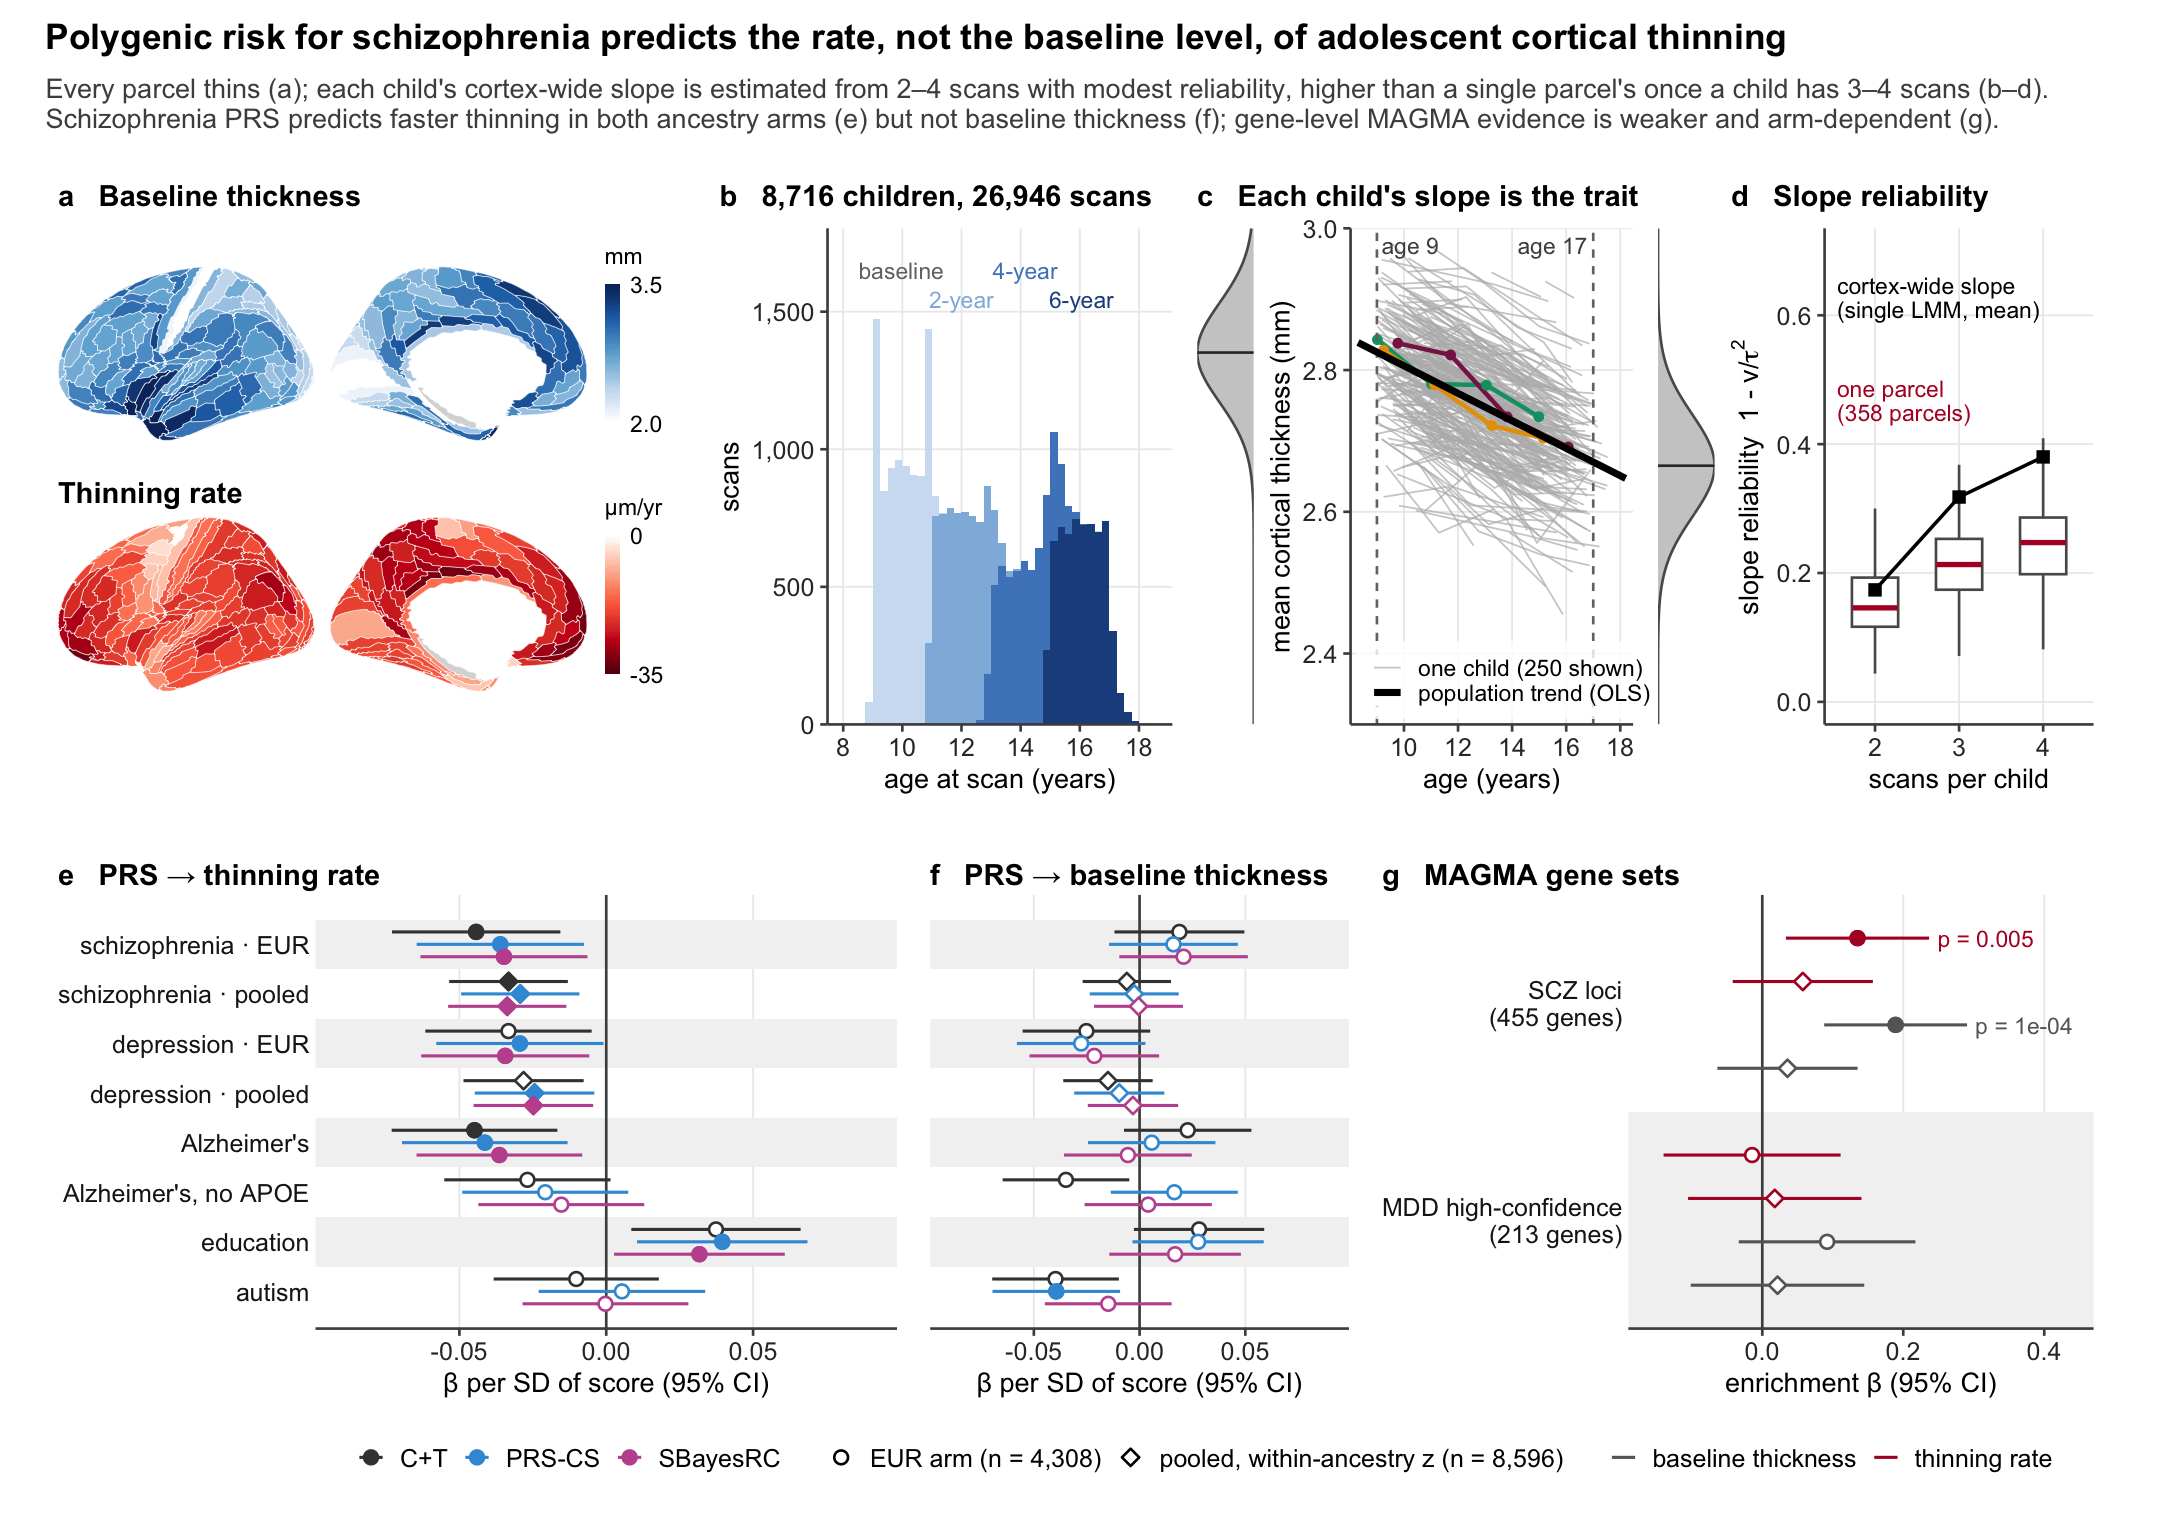
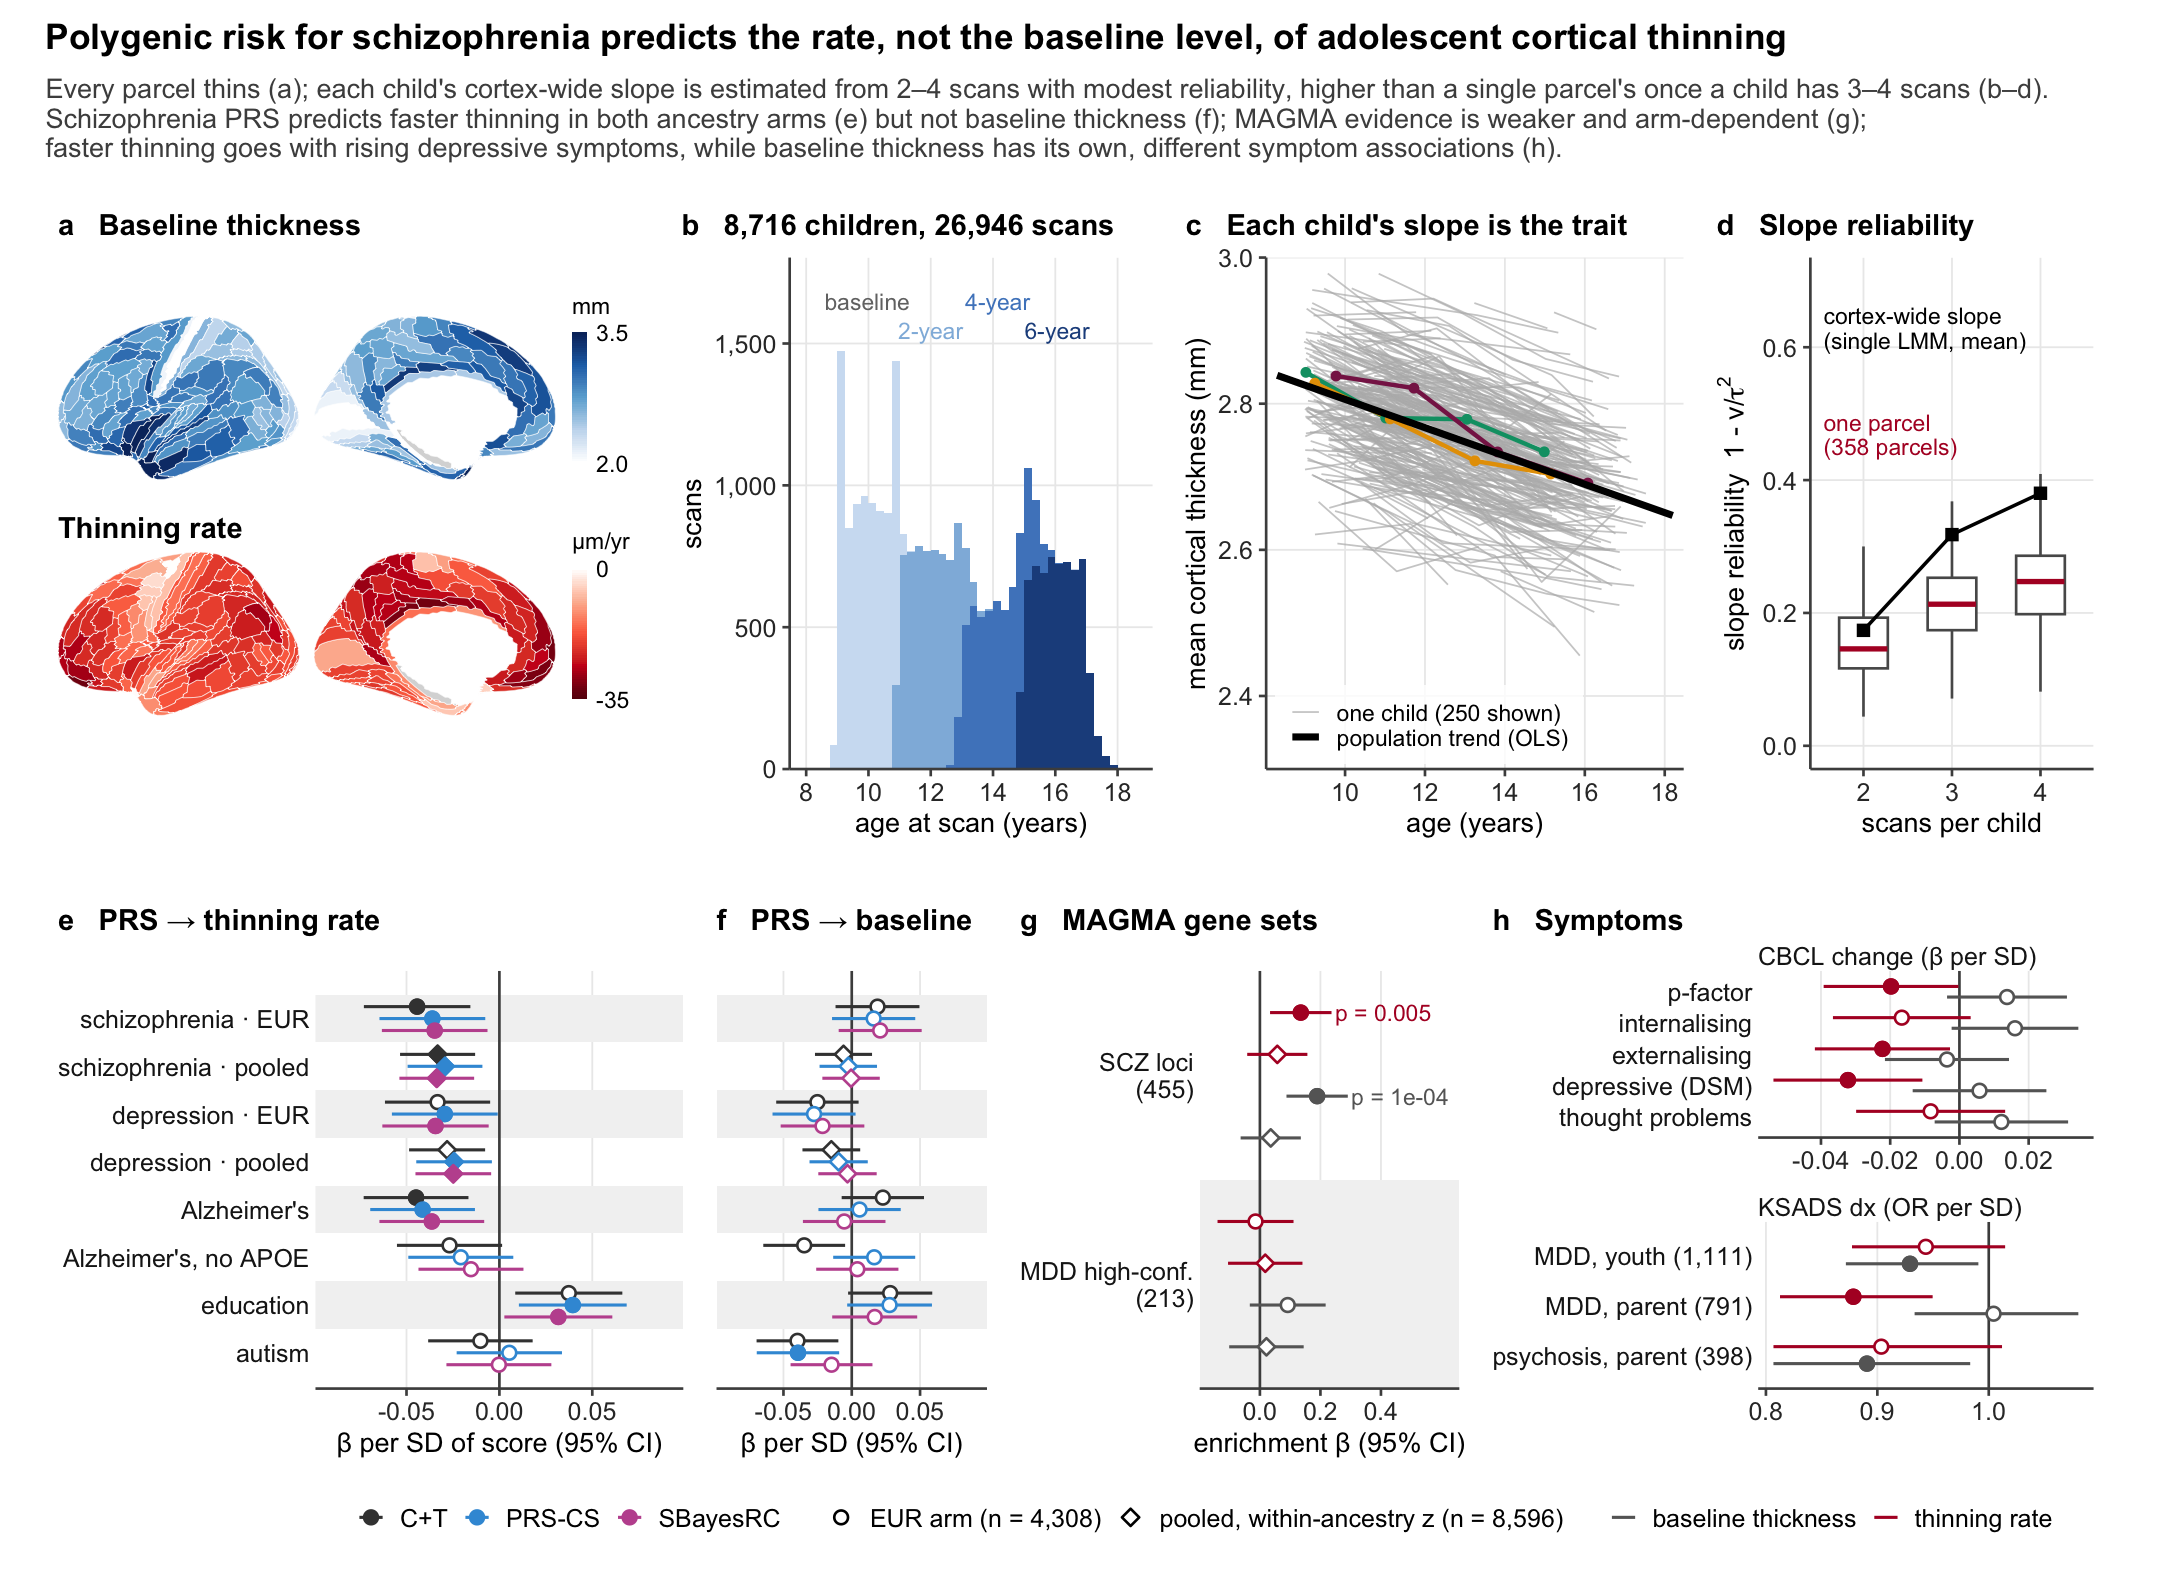
fig1: panel h (symptoms vs thinning rate and baseline thickness); marginal densities dropped; row 2 compressed
h  CBCL change (p-factor, internalising, externalising, DSM depressive,
   thought) and KSADS lifetime dx (MDD youth, MDD parent, psychosis parent)
   against the SAME single-LMM phenotypes as e-f -- not the mean-of-parcel
   'global_thin' of fig_cbcl_candidate -- each fitted alone (and jointly, in
   the table).  fig1_prep_cbcl.py executes the outcome-construction block of
   ahba_pls/code/23_cbcl_explore.py rather than re-implementing it, so outcome
   definitions and models match fig_cbcl_candidate; PLS rows excluded.
   Reproduces that session's global-thinning results with the sign flipped
   (DSM depressive change -0.032 p .003 vs +0.030 p .006; parent MDD OR .88
   vs 1.11).  Baseline thickness is not a null: youth MDD OR .93 (p .025),
   parent psychosis OR .89 (p .022), while it is null on symptom change --
   the rate and the level have different, not nested, associations.
   Joint models change nothing (slope-intercept r = .06).
   Individual-level inputs stay in /tmp; hcp70_cbcl_assoc.tsv is coefficients.
c  marginal densities and age markers removed (user: too busy).
e-h widths 0.68 / 0.5 / 0.48 / 0.62; shorter f title and x label, shorter g
   set labels, p labels no longer clipped.

diff --git a/genetic_analysis/fig1_prep_cbcl.py b/genetic_analysis/fig1_prep_cbcl.py
@@ -1,0 +1,104 @@
+"""Figure 1 panel h: symptoms vs the two Figure-1 phenotypes (HCP-MMP, 7.0).
+
+Usage (repo root, after `Rscript genetic_analysis/fig1_prep_1lmm.R`):
+    python genetic_analysis/fig1_prep_cbcl.py
+
+Brain predictors -- the SAME per-child quantities the genetics panels use (the
+single LMM on the per-scan cortical mean, orderops/build_1lmm_pheno.py
+definition), read from /tmp/hcp70_1lmm_blups.csv (individual-level, never
+committed):
+    global_slope        random slope (per SD; negative = faster thinning)
+    baseline_thickness  random intercept (per SD; thickness at the sample mean
+                        age, the positive-control phenotype of the PRS grid)
+Outcomes and models are taken verbatim from ahba_pls/code/23_cbcl_explore.py
+(its outcome-construction block is executed, not re-implemented), so the
+definitions match fig_cbcl_candidate.png:
+    CBCL change   y_LATE ~ brain + y_BASE + age_LATE + sex + site   (log1p raw
+                  scores; LATE = mean of waves 5-7; beta / SD(y_LATE))
+    KSADS         lifetime dx ~ brain + age_LAST + sex + site  (logit)
+    OLS / logit, site fixed effects, family-clustered SEs.
+Each brain predictor is fitted ALONE (one model per phenotype), and jointly
+(both in the model) so the slope's association can be read net of baseline.
+Writes fig1_inputs/hcp70_cbcl_assoc.tsv (coefficients only).
+"""
+from __future__ import annotations
+
+import sys
+from pathlib import Path
+
+import numpy as np
+import pandas as pd
+
+REPO = Path(__file__).resolve().parents[1]
+SRC_SCRIPT = REPO / "ahba_pls/code/23_cbcl_explore.py"
+BLUPS = Path("/tmp/hcp70_1lmm_blups.csv")
+OUT = REPO / "genetic_analysis/fig1_inputs/hcp70_cbcl_assoc.tsv"
+
+CBCL = ["pfactor", "internal", "external", "depress", "thought"]
+DXS = ["mdd_youth_DX", "mdd_parent_DX", "psychosis_parent_DX"]
+
+
+def build_outcomes() -> dict:
+    """Execute 23_cbcl_explore.py up to its model fits; return its namespace."""
+    src = SRC_SCRIPT.read_text()
+    cut = src.index("\ndef fit(")
+    ns = {"__file__": str(SRC_SCRIPT), "__name__": "cbcl_prefix"}
+    argv, sys.argv = sys.argv, [str(SRC_SCRIPT), "70"]
+    try:
+        exec(compile(src[:cut], str(SRC_SCRIPT), "exec"), ns)
+    finally:
+        sys.argv = argv
+    return ns
+
+
+def main() -> None:
+    ns = build_outcomes()
+    D = ns["D"].copy()
+    b = pd.read_csv(BLUPS).set_index("subject")
+    z = lambda s: (s - s.mean()) / s.std()
+    D["global_slope"] = z(b.re_slope).reindex(D.index)
+    D["baseline_thickness"] = z(b.re_intercept).reindex(D.index)
+    assert D.global_slope.notna().mean() > 0.99, D.global_slope.notna().mean()
+    import statsmodels.formula.api as smf
+
+    def fit(y, xs, extra, kind="ols"):
+        f = f"{y} ~ " + " + ".join(xs) + " + C(sex) + C(site)" + "".join(f" + {e}" for e in extra)
+        d = D.dropna(subset=[y, *xs, *extra])
+        m = (smf.logit if kind == "logit" else smf.ols)(f, d).fit(
+            cov_type="cluster", cov_kwds={"groups": d.family},
+            **({"disp": 0} if kind == "logit" else {}))
+        return m, d
+
+    FU = ns["FU"]
+    rows = []
+    for model_set, xs_list in (("alone", [["global_slope"], ["baseline_thickness"]]),
+                               ("joint", [["global_slope", "baseline_thickness"]])):
+        for xs in xs_list:
+            for o in CBCL:
+                y = f"{o}_{FU}"
+                m, d = fit(y, xs, [f"age_{FU}", f"{o}_BASE"])
+                for x in xs:
+                    rows.append(dict(outcome=o, model="change", fit=model_set, brain=x,
+                                     beta=m.params[x], se=m.bse[x], p=m.pvalues[x],
+                                     n=int(m.nobs), n_cases=np.nan, y_sd=D[y].std()))
+            for o in DXS:
+                m, d = fit(o, xs, ["age_LAST"], kind="logit")
+                for x in xs:
+                    rows.append(dict(outcome=o, model="ksads_logit", fit=model_set, brain=x,
+                                     beta=m.params[x], se=m.bse[x], p=m.pvalues[x],
+                                     n=int(m.nobs), n_cases=int(d[o].sum()), y_sd=np.nan))
+    A = pd.DataFrame(rows)
+    A["est"] = np.where(A.model == "change", A.beta / A.y_sd, np.exp(A.beta))
+    A["lo"] = np.where(A.model == "change", (A.beta - 1.96 * A.se) / A.y_sd,
+                       np.exp(A.beta - 1.96 * A.se))
+    A["hi"] = np.where(A.model == "change", (A.beta + 1.96 * A.se) / A.y_sd,
+                       np.exp(A.beta + 1.96 * A.se))
+    A["source"] = "7.0 p/mh_p_cbcl.tsv + y/mh_{p,y}_ksads; single-LMM HCP phenotypes"
+    A.drop(columns="y_sd").to_csv(OUT, sep="\t", index=False, float_format="%.5g")
+    show = A[A.fit == "alone"].pivot_table(index="outcome", columns="brain", values=["est", "p"])
+    print(show.round(4).to_string())
+    print(OUT)
+
+
+if __name__ == "__main__":
+    main()

diff --git a/docs/figures/fig1_caption.md b/docs/figures/fig1_caption.md
@@ -2,10 +2,11 @@
 
 - **a** Group maps per parcel (bilateral mean, left hemisphere shown): baseline thickness and mean per-child thinning rate (-33 to -0.1 µm / year).
 - **b** Age at scan by visit; 8,716 children, 26,946 scans; 2 / 3 / 4 scans per child for 2,205 / 3,508 / 3,003 children.
-- **c** Per-scan cortical mean vs age for 250 random children (grey), three children with four scans (colour), population OLS trend -19 µm / year (black). Side densities: model-implied distribution of child-level thickness at ages 9 (left) and 17 (right) from the single LMM (mean 2.82 and 2.67 mm, SD 0.070 and 0.072 mm; site variance excluded).
+- **c** Per-scan cortical mean vs age for 250 random children (grey), three children with four scans (colour), population OLS trend -19 µm / year (black).
 - **d** Slope reliability 1 − v/τ², where v is a child's conditional (posterior) variance of the slope random effect and τ² the between-child slope variance: boxes, per-parcel LMMs (358 parcels; each value the mean over children; medians 0.15 / 0.21 / 0.25 for 2 / 3 / 4 scans); squares, the single LMM on the cortical mean (mean over children 0.17 / 0.32 / 0.38).
 - **e, f** PRS association with thinning rate (e) and baseline thickness (f); β per SD with 95% CI. Schizophrenia (2025 GWAS): thinning 3/3 EUR / 3/3 pooled, baseline 0/3 / 0/3. Alzheimer's 3/3 with APOE, 0/3 without; depression 2/3 / 2/3; education 2/3 (opposite sign); autism 0/3.
 - **g** MAGMA enrichment in SCZ curated loci (Trubetskoy 2022 ST12, 455 genes) and MDD high-confidence genes (MDD2025 prioritised; 213 genes), p thinning / baseline; p printed on points with p < 0.05. SCZ: EUR 0.005 / 1e-04, pooled 0.13 / 0.24. MDD: EUR 0.59 / 0.08, pooled 0.39 / 0.37. EUR arm on 1000 Genomes EUR LD; pooled arm on the ABCD analysis sample as its own LD reference.
+- **h** Symptoms against the same single-LMM phenotypes (thinning rate red, baseline thickness grey; each fitted alone; filled = p < 0.05). CBCL (parent report): change in log-scored symptoms from baseline to ages ~15–17 (mean of waves 5–7), y_late ~ phenotype + y_baseline + age + sex + site, β in SD of y_late. KSADS: lifetime diagnosis at any wave, logistic, odds ratio per SD. Both phenotypes are signed as in e–f (slope: negative = faster thinning), so β < 0 or OR < 1 means more symptoms with faster thinning or thinner baseline cortex. Estimates are unchanged when both phenotypes enter one model (slope–intercept r = 0.06). Family-clustered SEs; n = 8,189 (CBCL change) and 8,716 (KSADS). Faster thinning goes with rising depressive symptoms (p = 0.003) and parent-reported MDD (OR 0.88, p = 0.001); thinner baseline cortex goes with youth-reported MDD (OR 0.93, p = 0.02) and parent-reported psychosis spectrum (OR 0.89, p = 0.02). Exploratory, uncorrected.
 
 Methods
 - ABCD release 7.0, HCP-MMP1.0 (358 parcels; 1 lh polygon without a value drawn grey); 8,716 children with >= 2 QC-passing scans.
